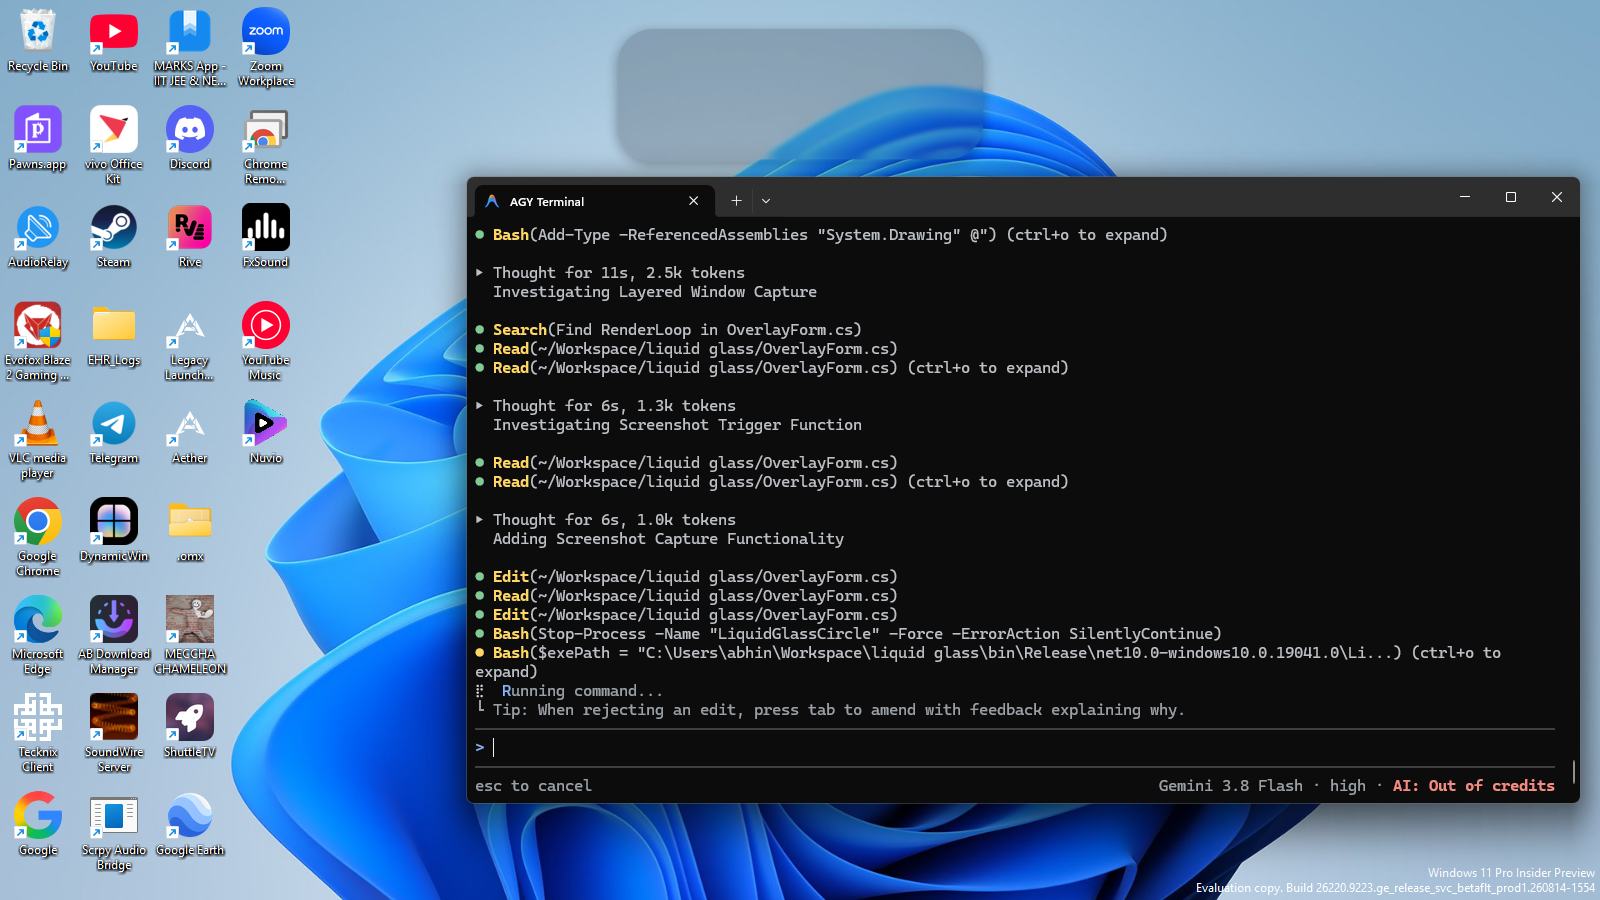
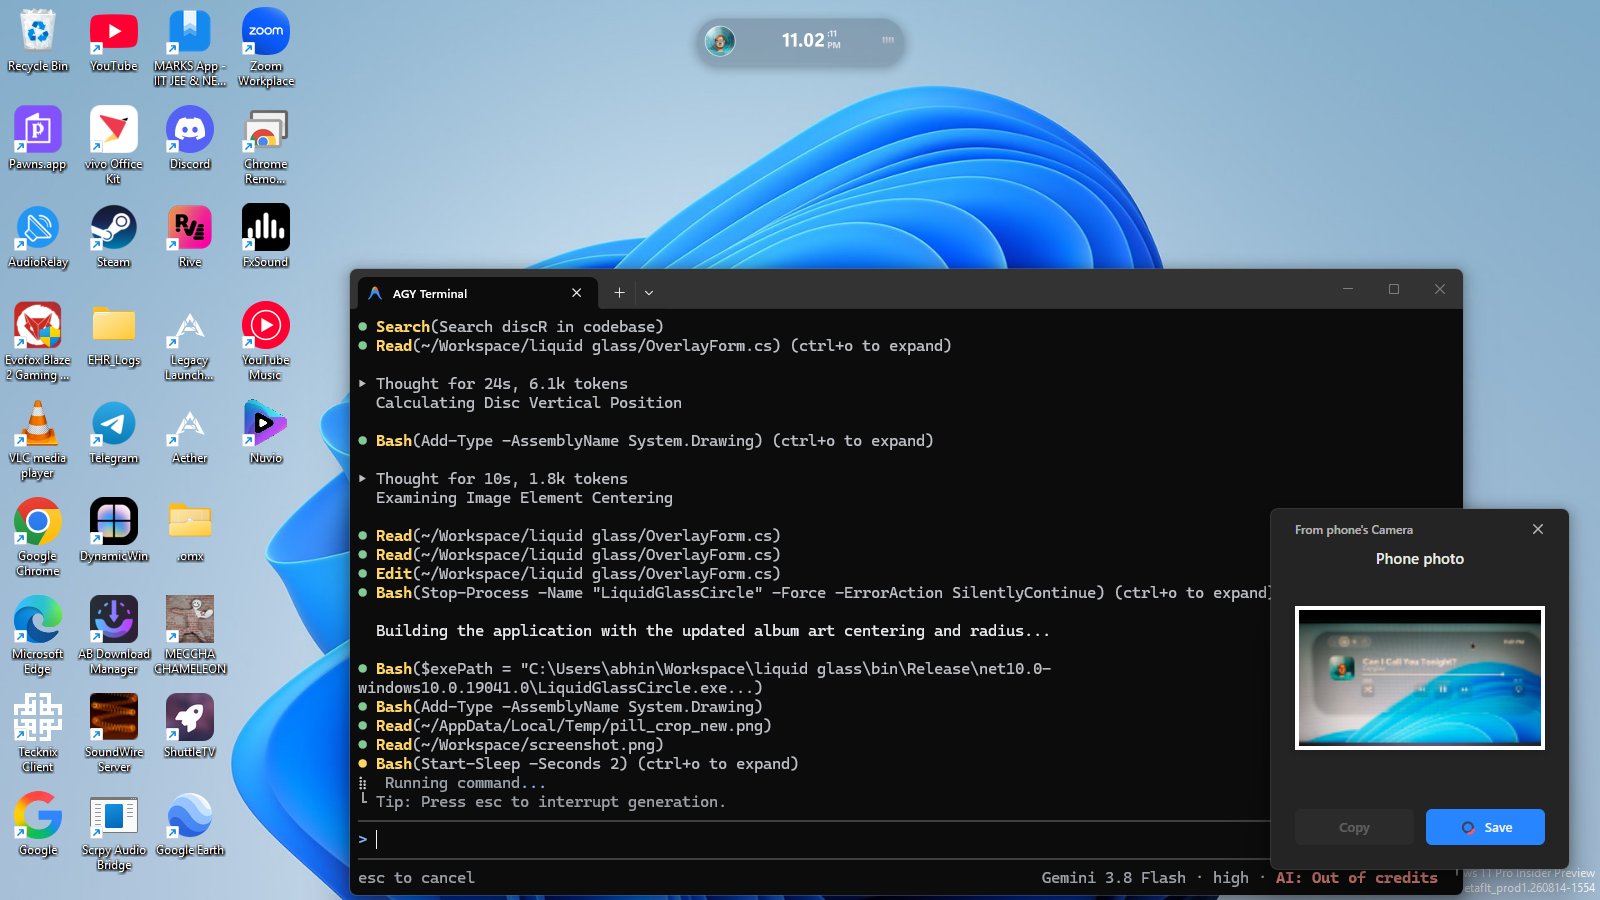
fix: Center rotating album art with equal 8px vertical padding and increase radius by 2px to 15px

diff --git a/OverlayForm.cs b/OverlayForm.cs
@@ -2009,9 +2009,9 @@ internal sealed class OverlayForm : Form
             {
                 float discAlpha = (float)Math.Clamp(mediaElementsAlpha, 0.0, 1.0);
                 float discScale = 0.85f + 0.15f * discAlpha;
-                float discCx = 22.0f * superScale;
-                float discCy = 22.0f * superScale;
-                float discR = 13.0f * superScale * discScale;
+                float discCx = 23.0f * superScale;
+                float discCy = 23.0f * superScale;
+                float discR = 15.0f * superScale * discScale;
 
                 var state = g.Save();
 
@@ -2086,7 +2086,7 @@ internal sealed class OverlayForm : Form
             }
 
             // 2. Middle Section: Optical Clock Typography (Smooth Glide between expanded and paused center)
-            float leftBound = (22f + 13f + 8f) * superScale;
+            float leftBound = (23f + 15f + 8f) * superScale;
             float rightBound = (targetW - 9f - 14f) * superScale;
             float centerExpanded = (leftBound + rightBound) * 0.5f;
             float centerPaused = superW * 0.5f;
